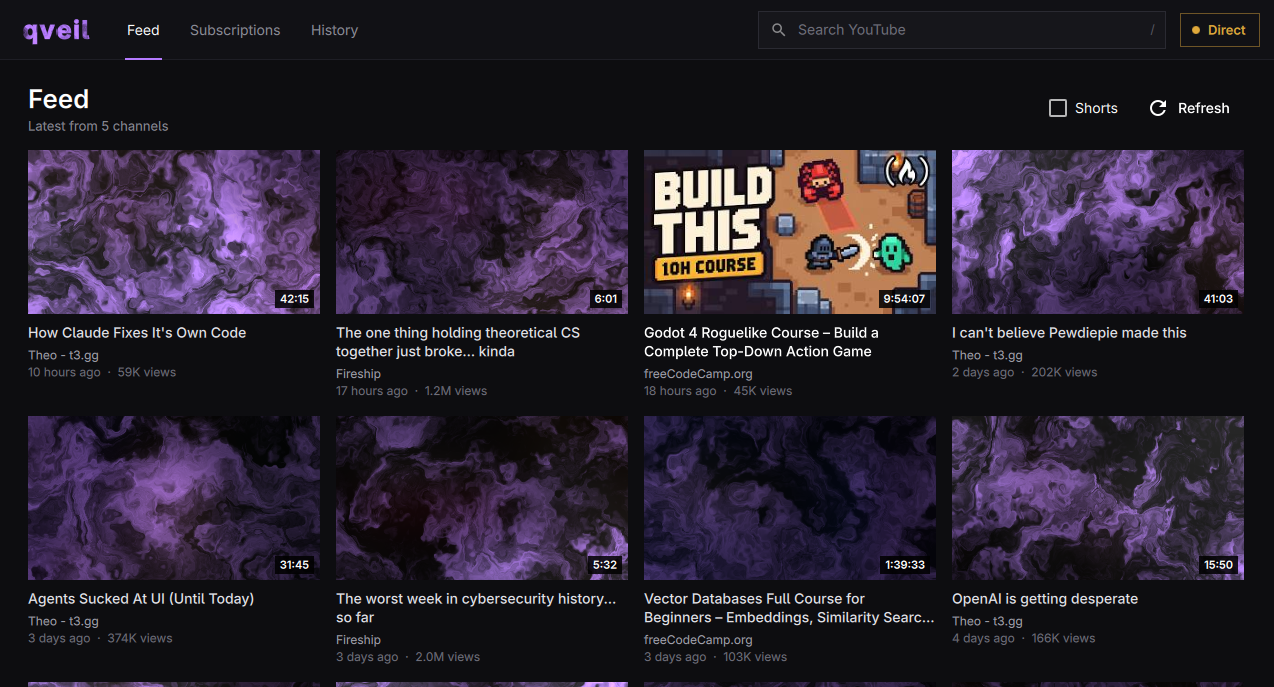
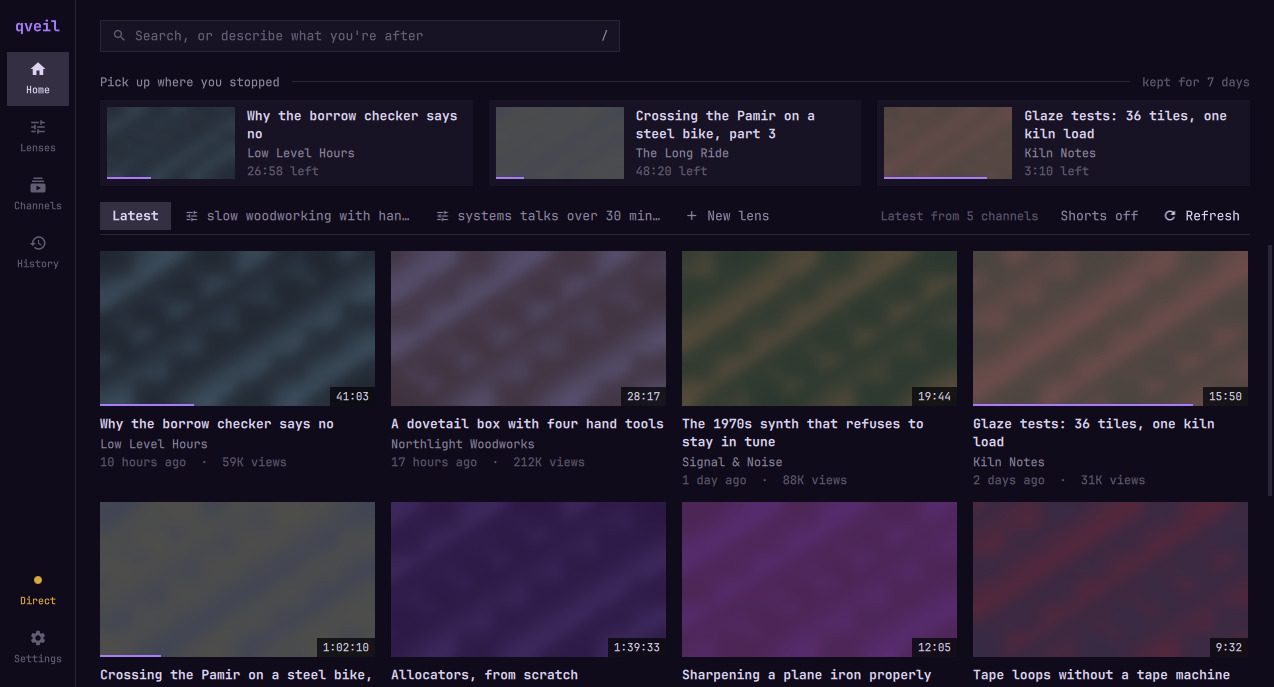
Release 0.4.0
The README describes the new window (home, lenses, the watch page with
comments, resume, picture in picture), all the keys and the new commands,
and has a still of the home page. The version is 0.4.0 in Cargo.toml,
Cargo.lock and the PKGBUILD. The shader tools are no longer needed to
build, now that the dye shader is gone.

diff --git a/README.md b/README.md
@@ -1,10 +1,11 @@
 # qveil
 
 A private, account-free YouTube app for Arch Linux and Omarchy. Subscribe,
-search and watch in a native window with no Google account, no stored cookies and
-no browser, and optionally route every byte through Tor.
+search, describe the feeds you want in words, and watch in a native window with
+no Google account, no stored cookies and no browser, and optionally route every
+byte through Tor.
 
-![qveil's feed, thumbnails veiled until hovered](docs/screenshot.png)
+![qveil's home page: unfinished videos on top, then the feed, thumbnails frosted until pointed at](docs/screenshot.png)
 
 > **Prototype.** It works day to day, but expect rough edges. Not affiliated
 > with YouTube or Google.
@@ -109,31 +110,57 @@ qveil can't make you invisible to YouTube: it still has to ask YouTube for video
 
 ## The app
 
-- **Feed**: latest uploads from your subscriptions. **Search** and **channel**
-  pages, **Subscriptions**, and an optional **History**.
-- Video plays inside the window (libmpv), with fullscreen.
-- **Veiled thumbnails**: thumbnails stay blurred and muted until you hover or
-  select them, so a wall of clickbait doesn't shout at you. You can switch
-  this off, or not load thumbnails at all.
+- **Home**: the videos you left part-way, then the latest uploads from the
+  channels you follow.
+- **Lenses**: feeds you describe in words, such as "slow woodworking with hand
+  tools, no music, longer than 15 minutes". Fixed rules read the words (no
+  language model): what is left after the rules are lifted out is searched
+  for, one search per topic, and the results are filtered and ordered on your
+  machine. The page shows how a lens was read and the exact searches a refresh
+  will make, and every result says why it is there. The search box reads the
+  same rules ("talks over 30 min", "jazz -fusion"); a query without one goes
+  to YouTube exactly as typed.
+- **Watching**: the video in a page of its own, with its description, its
+  chapters cut into the seek bar, what comes next in the list you opened it
+  from, and its **comments**, which are only fetched when you open that tab.
+  Timestamps seek; links to other sites can be copied but are never opened.
+- **Resume**: a video you stop part-way starts there next time. Positions are
+  kept for 7 days unless you change that in the settings (0 turns it off).
+- **Picture in picture** (`I`): the video moves to a small window of its own
+  while you go on browsing. Omarchy floats and pins that window by its title.
+  On another Hyprland setup, add a window rule that floats and pins windows
+  titled `Picture-in-Picture` (Omarchy's own is in `default/hypr/apps/pip.lua`).
+  Anywhere else it is an ordinary small window.
+- **Frosted thumbnails**: thumbnails stay blurred and muted until you point at
+  them, so a wall of clickbait doesn't shout at you. You can show them plainly,
+  or not load thumbnails at all.
 - **Live streams aren't supported yet.** qveil relays one plain download per
   video, and a live stream (or a video offered only as HLS/DASH) is a playlist
   whose segments the player would fetch itself, around your route. qveil says
   so instead of playing it.
 - **Moving from YouTube**: drop a Google Takeout `subscriptions.csv`, or a
   NewPipe or FreeTube export, anywhere on the window. It's read offline.
-- Follows the Omarchy theme accent and window rounding, live.
+- It looks like the rest of an Omarchy desktop: the theme's colours and accent,
+  the system's typeface (`omarchy font set` changes it live) and Hyprland's
+  window rounding.
 
 | Key | Action |
 |---|---|
 | `/` | Search |
-| `1` `2` `3` | Feed, subscriptions, history |
+| `1` `2` `3` `4` `5` | Home, lenses, channels, history, settings |
 | Arrows, `Enter` | Move and play |
-| `R` | Refresh |
+| `R` | Refresh what is showing |
+| `P` | Route |
 | `Space` | Play or pause |
 | `←` `→` / `J` `L` | Back or forward 5 / 10 seconds |
+| `[` `]` | Previous or next chapter |
+| `<` `>` | Slower or faster |
 | `↑` `↓` | Volume |
 | `M` | Mute |
+| `I` | Picture in picture, and back |
+| `T` | Theatre |
 | `F` | Fullscreen |
+| `C` | Comments |
 | `Esc` | Back |
 | `?` | All shortcuts |
 | `Q` | Quit |
@@ -152,14 +179,21 @@ qveil sub import subscriptions.csv
 qveil sub export > newpipe.json
 qveil play <url>            # plays in a separate mpv window
 qveil feed --tor --list
+qveil comments <url>        # --new, --replies, -n 80, --json
+qveil read talks over 30 min, no drama   # how a search or a lens is read; asks nobody
+qveil lens add slow woodworking, no music
+qveil lens ls
+qveil lens show 1 --refresh --json
+qveil resume                # where unfinished videos were stopped; --clear forgets them
 qveil config                # where data lives, what is exposed, what veil left over
 qveil wipe
 ```
 
 `--tor` and `--proxy <url>` are given to the commands that use the network
-(`search`, `play`, `feed`, `sub add`), after the command. What you type on
-`search`, `play` and `sub add` is in the command's arguments, which other local
-users can read through `/proc` while it runs (see the privacy model above).
+(`search`, `play`, `feed`, `comments`, `sub add`, `lens show`), after the
+command. What you type on `search`, `play`, `comments`, `sub add`, `lens add`
+and `read` is in the command's arguments, which other local users can read
+through `/proc` while it runs (see the privacy model above).
 Output piped into `head` and the like ends quietly when the reader is done.
 
 ## How it's built
@@ -167,7 +201,8 @@ Output piped into `head` and the like ends quietly when the reader is done.
 ```
 core/        qveil-core, the engine (Rust)
   server.rs    loopback server: state, lifecycle, routing
-  server/      http (limits, token), api, jobs (the feed refresh), thumbs, relay
+  server/      http (limits, token), api, jobs (the feed refresh), thumbs,
+               relay, comments, lenses
   privacy.rs   every privacy claim, for the window, `qveil config` and this README
   errors.rs    plain-language errors, and the code each carries
   proc.rs      every child process: own process group, killed with the engine
@@ -175,14 +210,27 @@ core/        qveil-core, the engine (Rust)
   inflight.rs  the running yt-dlp calls, so a route switch or exit can stop them
   signals.rs   clean-up on SIGINT, SIGTERM and SIGHUP
   feed.rs      per-channel RSS with a yt-dlp fallback when RSS is down
-  ytdlp.rs     isolated yt-dlp calls: search, channels, stream resolution
+  ytdlp.rs     isolated yt-dlp calls: search, channels, stream resolution, comments
+  lens.rs      lenses: stored words and what their searches found
+  lens/        read (words into topics and rules), rank (the order, and why),
+               sp (YouTube's own filters, where one contains a rule)
+  resume.rs    where unfinished videos were stopped, with an expiry
+  comments.rs  a video's comments, as threads
   private.rs   private scratch directories, so secrets stay off command lines
   ids.rs       URL → ID, dropping tracking parameters
 src/         the window (C++ / Qt Quick)
   backend.*    starts qveil-core and talks to it over loopback
   mpvitem.*    libmpv rendered into the scene
-  *.qml        the interface
+  theme.*      the Omarchy theme's colours, the system typeface, Hyprland's rounding
+  Style.qml    the tokens everything is drawn with
+  *.qml        the parts (Act, TabWord, Field, …) and the pages built from them
+  Linkify.js   what in a description or a comment can be clicked
+tests/       Qt tests; shots/engine.py is a stand-in engine for them and for stills
 ```
+
+`bin/shot <view> <out.png>` takes a still of the built window against that
+stand-in engine, inside a headless compositor (it needs `cage`; `ffmpeg` gives
+the watch page something to play), without opening anything on the desktop.
 
 YouTube's private API, signature deciphering and PO tokens change
 constantly. qveil leaves that to yt-dlp, so a fix there is a package update
@@ -195,6 +243,7 @@ RSS fails for, the rest of that refresh doesn't ask it again.
 ```sh
 bin/build    # engine + app into build/
 bin/test     # Rust and Qt tests
+bin/shot home home.png
 ```
 
 **Releasing.** `pkgbuild/PKGBUILD` builds the tag `v<pkgver>` from GitHub
